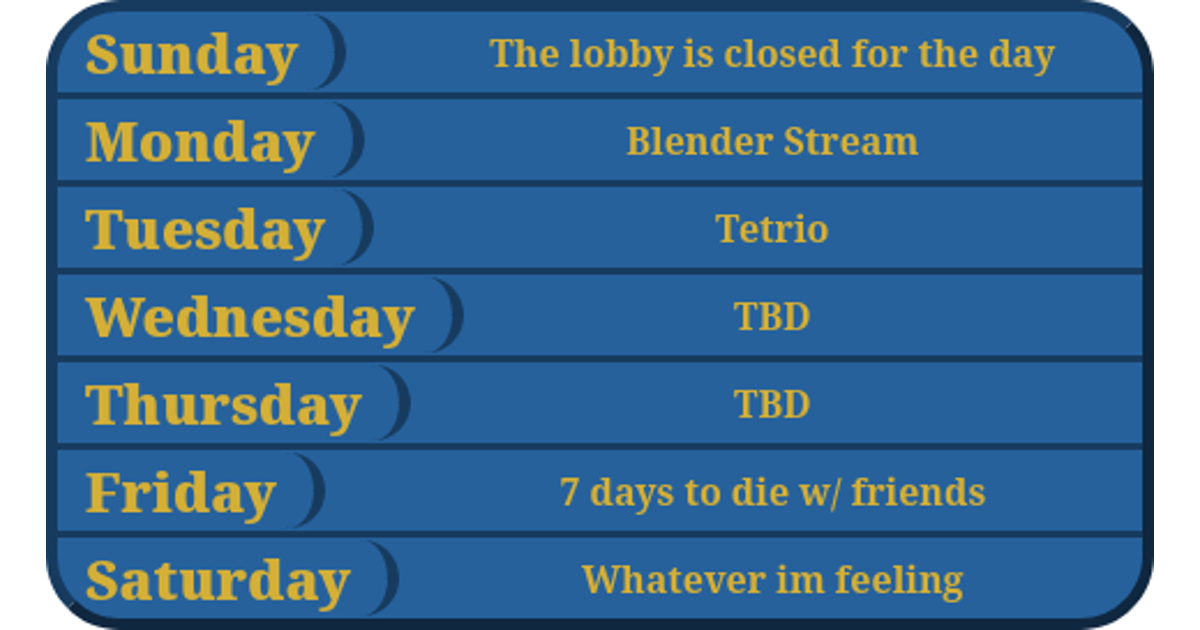
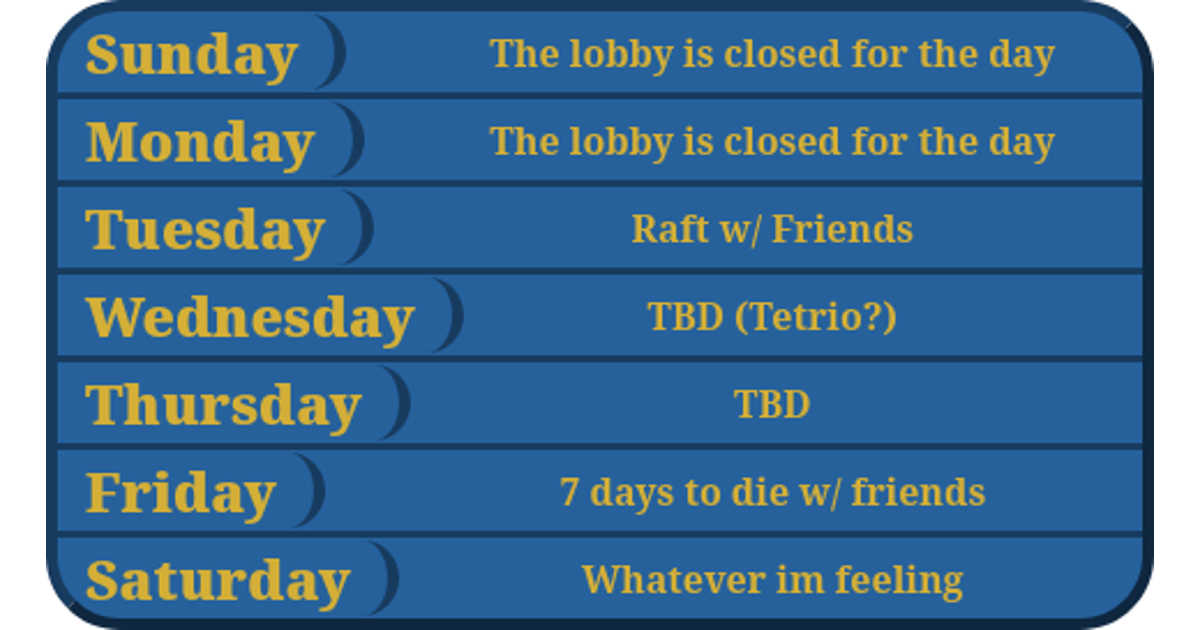
emergency update

Changed region(s): [[0.4008, 0.181, 0.8942, 0.2714], [0.5242, 0.3317, 0.7708, 0.3921], [0.5242, 0.4825, 0.7708, 0.5429]]

diff --git a/schedule/index.html b/schedule/index.html
@@ -8,8 +8,8 @@
     <meta content="Stream Schedule" property="og:title" />
     <meta content="The schedule for my streams, which I try to stay on top of" property="og:description" />
     <meta content="https://atlas-chainsteel.github.io/schedule/" property="og:url" />
-    <meta id="og-image" content="https://atlas-chainsteel.github.io/schedule/embedimage.png?v=1" property="og:image" />
-    <meta id="twitEmbed" content="https://atlas-chainsteel.github.io/schedule/embedimage.png?v=1" name="twitter:image" />
+    <meta id="og-image" content="https://atlas-chainsteel.github.io/schedule/embedimage.png?v=2" property="og:image" />
+    <meta id="twitEmbed" content="https://atlas-chainsteel.github.io/schedule/embedimage.png?v=2" name="twitter:image" />
     <meta content="summary_large_image" name="twitter:card" />
     <meta content="#26619c" data-react-helmet="true" name="theme-color" />
   </head>
@@ -21,13 +21,13 @@
           <td class="day">Sunday</td><td class="plans">The lobby is closed for the day</td>
         </tr>
         <tr class="row">
-          <td class="day">Monday</td><td class="plans">Blender Stream</td>
+          <td class="day">Monday</td><td class="plans">The lobby is closed for the day</td>
         </tr>
         <tr class="row">
-          <td class="day">Tuesday</td><td class="plans">Tetrio</td>
+          <td class="day">Tuesday</td><td class="plans">Raft w/ Friends</td>
         </tr>
         <tr class="row">
-          <td class="day">Wednesday</td><td class="plans">TBD</td>
+          <td class="day">Wednesday</td><td class="plans">TBD (Tetrio?)</td>
         </tr>
         <tr class="row">
           <td class="day">Thursday</td><td class="plans">TBD</td>
